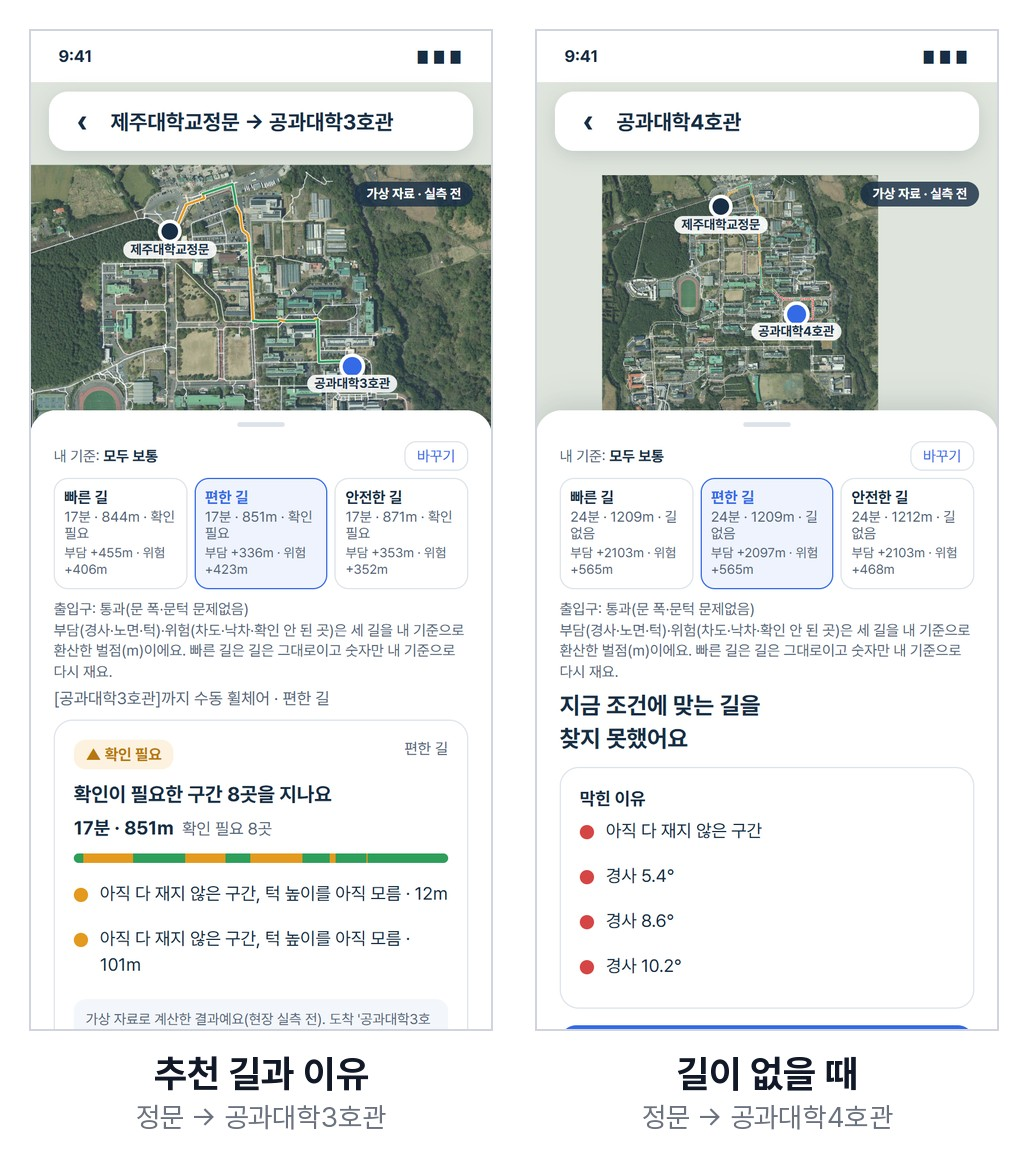
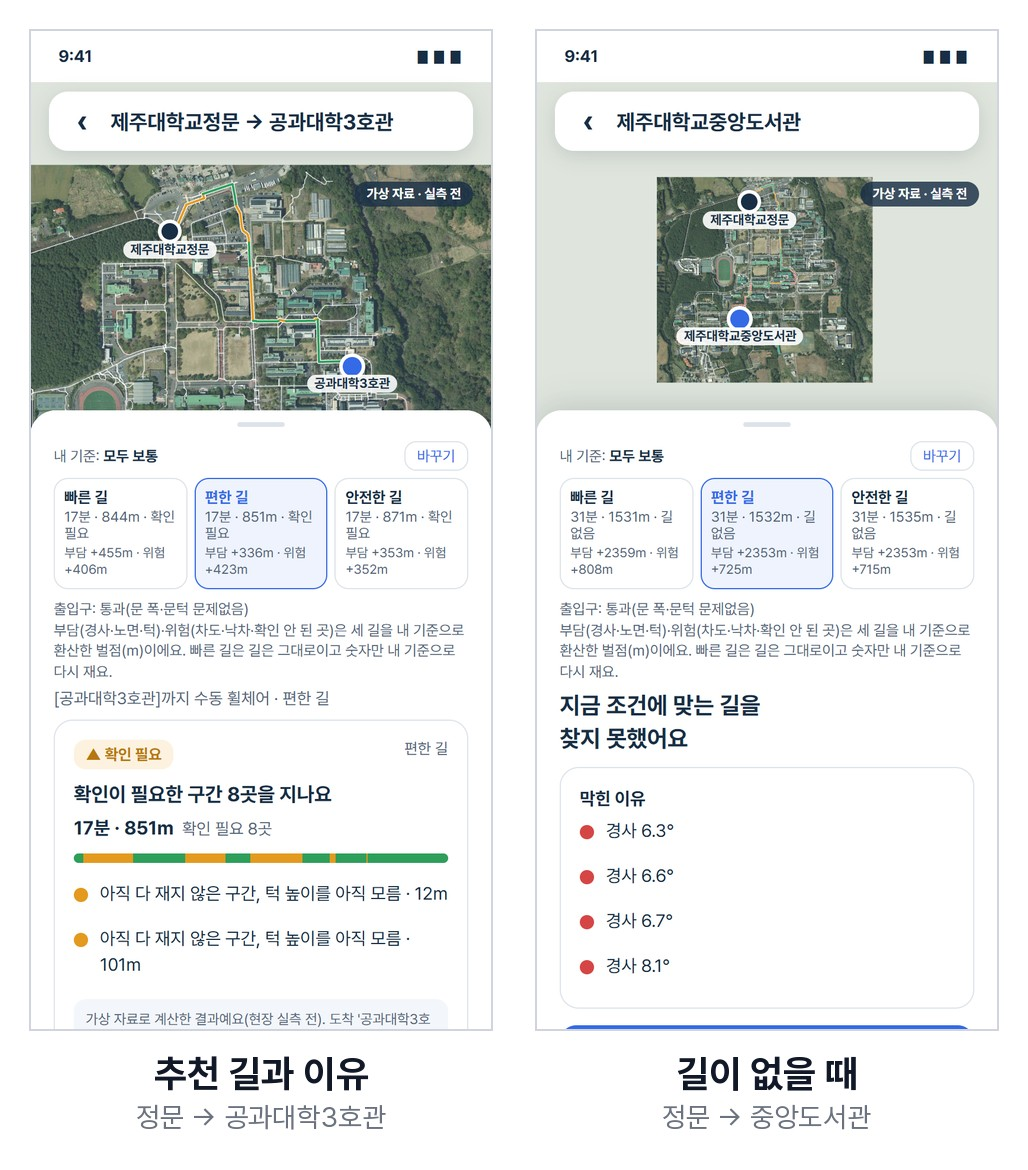
README: 팀 역할·지금 상태 표, 시험 숫자·판정표·기술 목록 바로잡음
- 팀원 4명과 역할(11/16 신청서 기준), 실측·추정·가상 구분 표
- 첫 문단의 "2 cm 턱에도 못 지나간다"를 엔진 기준과 맞게 고침
- 제주대 시험은 팀 PC 자료가 있어야 돎(다른 PC에서는 0개), DataPrep/tests는 184개
- 판정표에 길이 아닌 곳, 노면 못 감, 높이 모름 추가
- 엔진 입력은 파일 세 개, Python 3.10 이상과 requirements.txt, Unity 판
- 3D 그림 색 설명, 측정 앱 그림은 개발 중 판(0.4대)이라고 밝힘, 그림 설명 글(alt)
- 길이 없을 때 그림을 막힘 이유만 나오는 중앙도서관으로 다시 찍음

diff --git a/README.md b/README.md
@@ -4,7 +4,29 @@
 
 제주대학교 컴퓨터공학전공 팀 **길동무**
 
-'길동무'는 휠체어·유모차 이용자가 출발 전에 갈 수 있는 길과 막힌 이유를 알 수 있게 돕는 동선 추천 서비스입니다. 휠체어·유모차는 2 cm의 작은 턱에도 지나가지 못하지만 일반 지도는 이를 알려 주지 않습니다. 측정 앱으로 경사·턱 같은 길 정보를 재서 채우고, 이동 유형에 맞는 경로와 막힌 이유를 함께 안내합니다. 제주대학교(현실 3D)와 제주민속촌(가상 3D)에 적용했습니다.
+| 이름 | 맡은 일 |
+|---|---|
+| 강승준 (팀장) | 전체 총괄, AI 학습 기반 경로 고도화, 3D 검증 환경 |
+| 이은 | 경로 알고리즘(접근성 속성·비용함수 설계, 경로 산출 엔진), 앱 화면 설계 |
+| 양인권 | 측정 매뉴얼과 현장 실측 총괄, 실측 도구 관리, 측정 기록 정리 |
+| 염지석 | 측정 앱과 동선 추천 앱 개발 |
+
+(역할은 2026-11-16 캡스톤디자인 신청서의 역할 분담 기준입니다.)
+
+'길동무'는 휠체어·유모차 이용자가 출발 전에 갈 수 있는 길과 막힌 이유를 알 수 있게 돕는 동선 추천 서비스입니다. 휠체어·유모차는 몇 cm의 턱이나 가파른 경사에도 막힐 수 있지만, 일반 지도는 이를 알려 주지 않습니다. 측정 앱으로 경사·턱 같은 길 정보를 재고, 그 값으로 이동 유형에 맞는 경로와 막힌 이유를 함께 안내하도록 만들고 있습니다. 제주대학교(현실 3D)와 제주민속촌(가상 3D)에 적용했습니다.
+
+## 지금 상태 (2026-11-22)
+
+| 항목 | 제주대학교 | 제주민속촌 |
+|---|---|---|
+| 길 연결망·건물 | 국가 수치지도(1:1,000), OpenStreetMap, 지도에 없는 보행로는 항공사진을 보고 보탬 | 온라인 공개 정보로 만든 연결망 |
+| 앞뒤 경사 | 지도의 땅 높이로 추정 | 가상 값 |
+| 턱 | 자리는 1:1,000 지도의 실제 위치, 높이는 가상 값 | 가상 값 |
+| 좌우 기울기·노면·장애물 | 가상 값 | 가상 값 |
+| 현장 실측 | 측정 앱과 실측 도구로 현장 실측함. 실측 값은 아직 엔진에 넣지 않음 | 아직 안 함 |
+| 이용자 시험 | 아직 안 함 | 아직 안 함 |
+
+그래서 아래 화면과 결과는 실측 값이 아니라 위 값으로 계산한 것입니다. 앱 화면에는 '가상 자료 · 실측 전'을 표시합니다.
 
 ## 구성
 
@@ -16,15 +38,17 @@
 
 ## 화면
 
-<img src="docs/images/jejunu_3d_route.jpg" width="360">
+<img src="docs/images/jejunu_3d_route.jpg" width="560" alt="제주대학교 3D 맵 위에 경로 엔진이 찾은 경로를 색 띠로 칠한 그림. 위는 전체, 아래는 세부">
 
-국가 공개 지도로 만든 제주대학교 3D 맵과 추천 경로 (위: 전체, 아래: 확대)
+국가 공개 지도로 만든 제주대학교 3D 맵 위에 경로 엔진이 찾은 경로를 칠한 그림입니다. 파랑은 갈 수 있음, 주황은 확인 필요, 끊어 그린 빨강은 막힘입니다(위: 전체, 아래: 세부, 2026-11-15 가상 값 기준).
 
-<img src="docs/images/app_measure_and_route.jpg" width="860">
+<img src="docs/images/app_measure_and_route.jpg" width="860" alt="측정 앱의 제주대 지도 구간 고르기 화면과 추천 앱의 이동 유형 선택, 제주대 지도, 목적지 고르기 화면">
 
-<img src="docs/images/app_route_result.jpg" width="430">
+<img src="docs/images/app_route_result.jpg" width="430" alt="추천 앱 결과 화면 두 개. 정문에서 공과대학3호관까지 추천 길과 이유, 정문에서 중앙도서관까지 길이 없을 때 막힌 이유(경사)">
 
-제주대학교 지도를 넣은 측정 앱과 추천 앱 화면입니다. 추천 앱은 이동 유형에 맞춘 추천 길과 그 이유를 보여 주고, 갈 수 있는 길이 없으면 막힌 이유를 알려 줍니다. 경사·턱 값은 실측 전이라 가상 값으로 계산했습니다. 추천 앱은 엔진 결과를 넣어 만든 웹 시제품이며, 지도 자료가 함께 들어 있어 이 저장소에는 넣지 않았습니다.
+제주대학교 지도를 넣은 측정 앱과 추천 앱 화면입니다.
+- 측정 앱 화면은 개발 중인 판(0.4대)입니다. 링크한 측정 앱 저장소에는 아직 그 앞의 판(0.3.2)이 올라가 있습니다.
+- 추천 앱은 이동 유형에 맞춘 추천 길과 그 이유를 보여 주고, 갈 수 있는 길이 없으면 막힌 이유를 알려 줍니다. 엔진 결과를 넣어 만든 웹 시제품이며, 지도 자료가 함께 들어 있어 이 저장소에는 넣지 않았습니다.
 
 ## 경로를 고르는 방법
 
@@ -37,8 +61,9 @@
    | 턱 | 18\~22 mm | 22 mm 초과 |
    | 길 폭 | 80\~90 cm | 80 cm 미만 |
    | 틈 (진행 방향과 나란한 것) | 10\~13 mm | 13 mm 초과 (틈을 피해 남는 폭이 80 cm 이상이면 막지 않음) |
-   | 계단 · 못 감 구간 · 끊긴 길 · 출입 금지 | | 막힘 |
-   | 아직 다 재지 못한 구간 | 불확실 | |
+   | 계단 · 못 감 구간 · 끊긴 길 · 출입 금지 · 길이 아닌 곳 | | 막힘 |
+   | 노면 '못 감' 등급 | 실측 기록은 밀어 보기로 확인하기 전까지 불확실 | 수동 휠체어 막힘 |
+   | 턱·틈 높이를 모르는 곳, 아직 다 재지 못한 구간 | 불확실 | |
 
 3. **추천 길 세 가지**: 다익스트라 알고리즘으로 아래 세 길을 찾습니다. 각 항목의 부담은 '더 걷는 미터'로 바꿔 거리에 더하고, 이동 유형마다 배수를 다르게 둡니다(`DataPrep/route_weights.json`).
    - 빠른 길: 거리만 봅니다.
@@ -47,7 +72,7 @@
 4. **결과 설명**: 길마다 판정 이유(예: "앞뒤 5.2°", "계단")와 부담 항목을 함께 내고, 갈 수 있는 길이 없으면 어느 구간이 왜 막혔는지 냅니다. 앱 화면은 이 결과를 문장으로 바꿔 보여 줍니다.
 5. **사람마다 조절**: 앱에서 경사 / 바닥·턱 / 차도·위험을 각각 '덜 신경 씀 · 보통 · 많이 신경 씀'(배수 0.5 · 1 · 2)으로 고르면, 편한 길과 안전한 길을 그 사람 기준으로 다시 찾습니다. 앱 안 길찾기(`app/router.js`)는 파이썬 엔진과 같은 방식으로 계산하고, 같은 결과가 나오는지 시험으로 확인합니다(`DataPrep/tests/test_router_js.py`).
 
-엔진은 대상지와 상관없이 같은 형식의 경로 입력 파일만 받습니다. 측정 앱으로 실제 값을 재면 이 입력 파일만 바꾸면 되도록 만들었습니다.
+엔진은 대상지와 상관없이 같은 형식의 파일 세 개(구간표, 시설 목록, 경로 입력)를 받습니다. 측정 앱으로 실제 값을 재면 경로 입력 파일만 바꾸면 되도록 만들었습니다.
 
 ## 대상지
 
@@ -80,19 +105,23 @@
 
 | 부분 | 기술 |
 |---|---|
-| 경로 엔진·자료 처리 | Python 3, NumPy, SciPy, Shapely, Pillow |
-| 3D 맵 | Unity 6 (URP), C# 에디터 스크립트 |
+| 경로 엔진·자료 처리 | Python 3.10 이상. 엔진 핵심은 표준 라이브러리만 쓰고, 자료 처리에 NumPy, SciPy, Shapely 2, Pillow, OpenCV, pyproj, pyshp(`requirements.txt`) |
+| 3D 맵 | Unity 6 (6000.6, URP), C# 에디터 스크립트. Unity 프로젝트 설정·장면·자료는 넣지 않아 이 저장소만으로는 Unity에서 열리지 않습니다 |
 | 앱 안 길찾기 | JavaScript (브라우저, 시험은 Node.js) |
 | 측정 앱 | 웹앱 (JavaScript), Supabase |
 
 ## 실행과 시험
 
 ```bash
+pip install -r requirements.txt
 python -m pytest DataPrep/tests
 python -m pytest DataPrep/jejunu/tests
 ```
 
-이 저장소에는 코드만 있습니다. 지도·항공사진·측정 기록·결과 파일은 자료마다 이용 조건이 있어 넣지 않았고, 코드는 팀 PC의 자료 위치를 가리킵니다. 그래서 자료 파일이 필요 없는 시험(판정·가중치 계산·앱 길찾기 반례 등)만 이 저장소만으로 돌아갑니다. 2026-11-22 기준으로 자료 없이 `DataPrep/tests` 184개, `DataPrep/jejunu/tests` 33개가 통과하고, 나머지는 자료 파일이 없어 건너뛰거나 실패합니다. `test_router_js.py`는 Node.js가 있어야 돌고, 없으면 건너뜁니다.
+이 저장소에는 코드만 있습니다. 지도·항공사진·측정 기록·결과 파일은 자료마다 이용 조건이 있어 넣지 않았고, 코드는 팀 PC의 자료 위치를 가리킵니다. 그래서 자료 파일이 필요 없는 시험(판정·가중치 계산·앱 길찾기 반례 등)만 이 저장소만으로 돌아갑니다. 2026-11-22 기준 결과는 아래와 같습니다.
+- `DataPrep/tests`: 자료가 없는 PC에서 184개가 통과하고, 나머지는 자료 파일이 없어 실패합니다. `test_router_js.py`는 Node.js가 있어야 돌고, 없으면 그중 13개를 건너뜁니다.
+- `DataPrep/jejunu/tests`: 시작할 때 팀 PC의 자료 파일을 읽어서, 자료가 없는 PC에서는 돌지 않습니다. 팀 PC에서는 33개가 통과합니다.
+- 두 시험 폴더에 이름이 같은 시험 파일이 있어 폴더마다 따로 돌립니다.
 
 ## 앞으로
 
